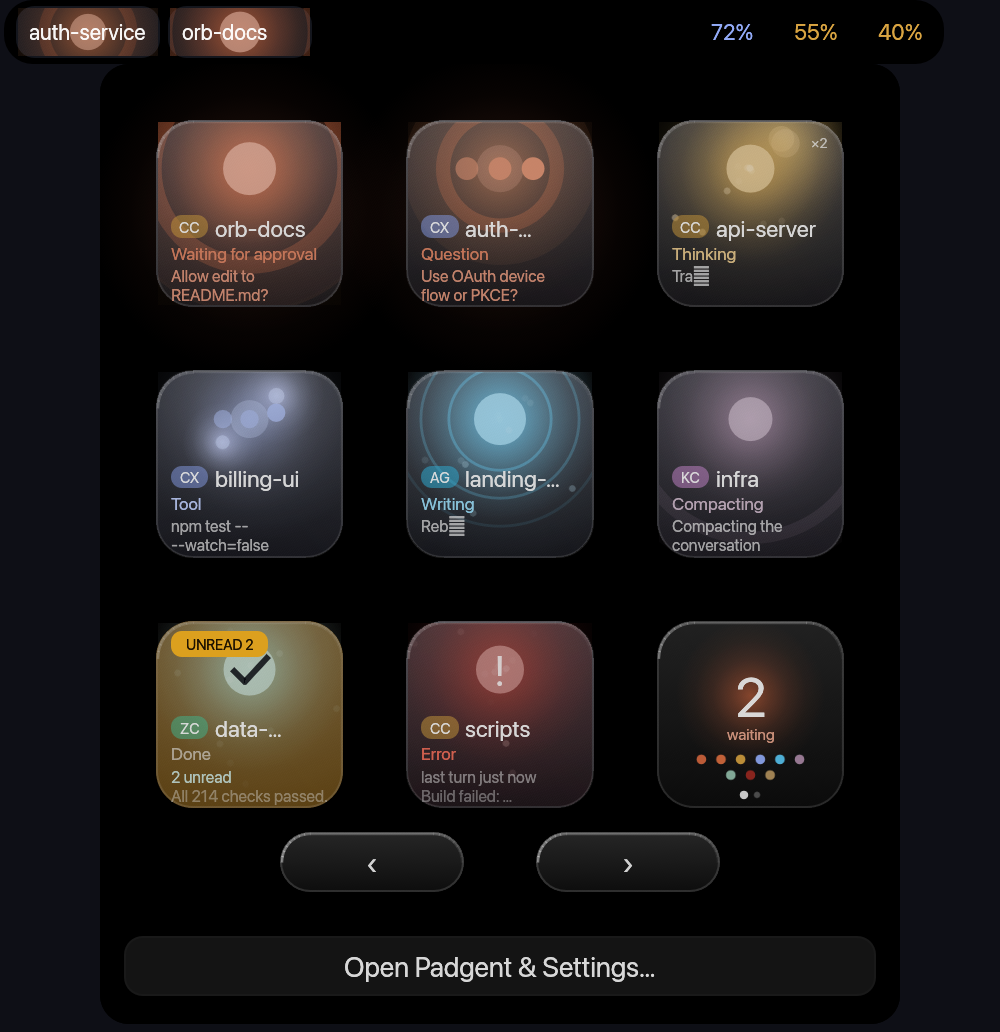
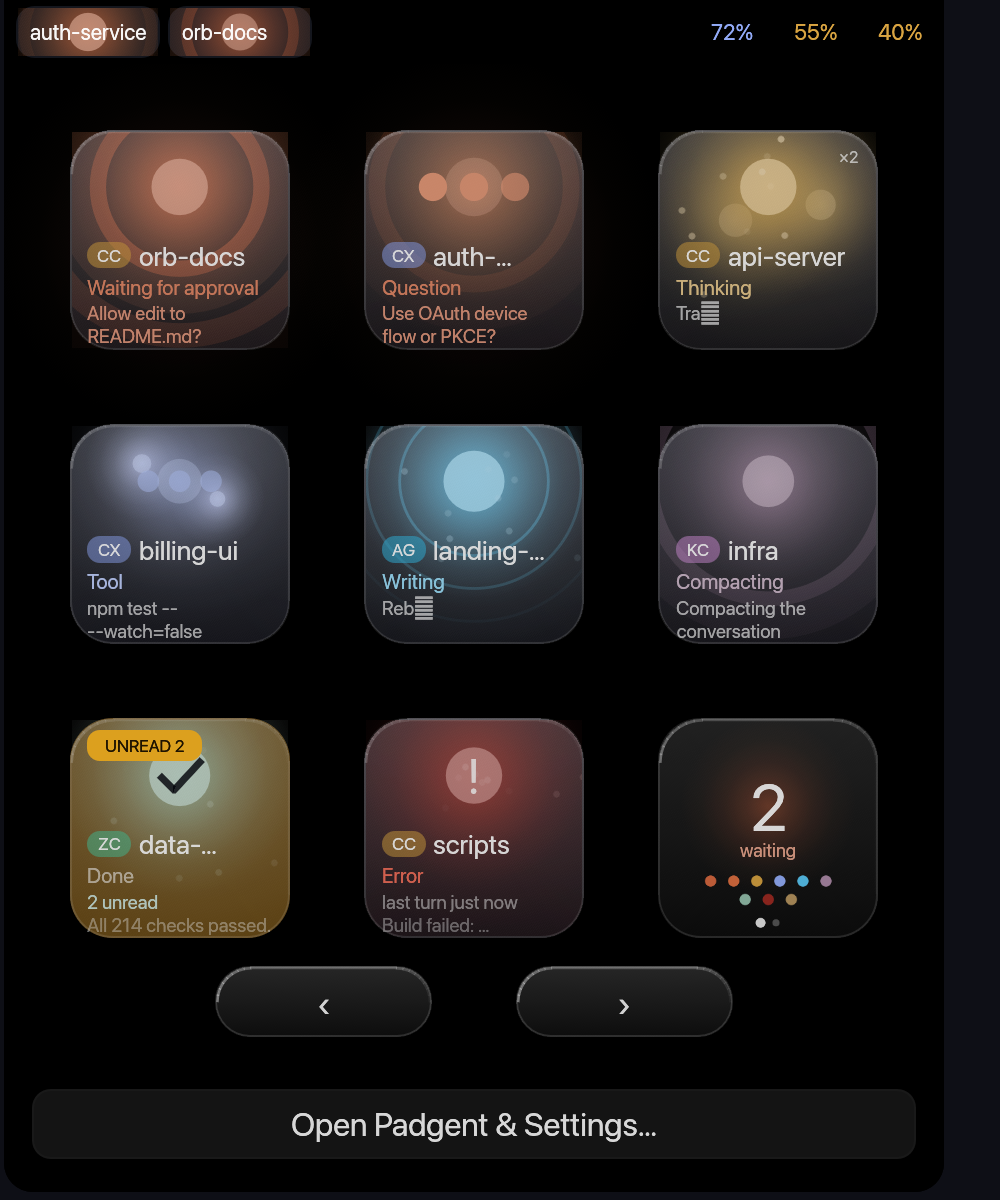
Fix notch font updates and expand the full black surface

diff --git a/src/main.rs b/src/main.rs
@@ -451,7 +451,8 @@ impl App {
         let right_width = 6.0 + quota_count as f32 * 42.0;
         let width = (notch + 2.0 * (left_width.max(right_width) + 6.0)).max(400.0);
         let expanded = self.popup_open && self.popup_from_island;
-        let window_h = h + if expanded || self.island_progress > 0.0 { 484.0 } else { 4.0 };
+        let body_width = notch + left_width + right_width + 12.0;
+        let window_h = h + if expanded || self.island_progress > 0.0 { body_width * 1.2 + 4.0 } else { 4.0 };
         let island_x = x - (width - 400.0) / 2.0;
         let builder = egui::ViewportBuilder::default().with_title("Padgent Island")
             .with_inner_size([width, window_h]).with_position(pos2(island_x, y))
@@ -465,12 +466,13 @@ impl App {
                 ui.ctx().send_viewport_cmd(egui::ViewportCommand::OuterPosition(pos2(island_x, y)));
                 ui.ctx().send_viewport_cmd(egui::ViewportCommand::InnerSize(vec2(width, window_h)));
             }
-            action = Self::island_contents(ui, &active, &quotas, brightness, reduced, notch, h);
             let progress = if reduced { if expanded { 1.0 } else { 0.0 } } else {
                 ui.ctx().animate_bool_with_time(egui::Id::unique("island-body"), expanded, 0.22)
             };
             self.island_progress = progress;
-            self.island_body(ui, ctx, notch, h, progress);
+            let (next_action, pill) = Self::island_contents(ui, &active, &quotas, brightness, reduced, notch, h, progress > 0.0);
+            action = next_action;
+            self.island_body(ui, ctx, pill, h, progress);
         });
         mac::configure_island_window();
         if let IslandAction::Open(agent, session) = &action {
@@ -494,13 +496,11 @@ impl App {
         }
     }
 
-    fn island_body(&mut self, ui: &mut Ui, root: &egui::Context, notch: f32, h: f32, progress: f32) {
+    fn island_body(&mut self, ui: &mut Ui, root: &egui::Context, pill: Rect, h: f32, progress: f32) {
         if progress <= 0.0 { return; }
-        let full = ui.max_rect();
-        let body = Rect::from_min_size(pos2(full.center().x - 200.0, full.top() + h), vec2(400.0, 480.0));
-        let width = notch.clamp(40.0, 400.0) + (400.0 - notch.clamp(40.0, 400.0)) * progress;
-        let reveal = Rect::from_min_size(pos2(full.center().x - width / 2.0, body.top()), vec2(width, 480.0 * progress));
-        ui.painter().rect_filled(reveal, CornerRadius::same(14), Color32::BLACK);
+        let body = Rect::from_min_size(pos2(pill.left(), pill.top() + h), vec2(pill.width(), pill.width() * 1.2));
+        let reveal = Rect::from_min_size(body.min, vec2(body.width(), body.height() * progress));
+        ui.painter().rect_filled(reveal, CornerRadius { nw: 0, ne: 0, sw: 14, se: 14 }, Color32::BLACK);
         if self.popup_open && self.popup_from_island {
             let mut child = ui.new_child(UiBuilder::new().max_rect(body).layout(egui::Layout::top_down(egui::Align::LEFT)));
             child.set_clip_rect(reveal.intersect(body));
@@ -508,7 +508,7 @@ impl App {
         }
     }
 
-    fn island_contents(ui: &mut Ui, active: &[IslandAgent], quotas: &[IslandQuota], brightness: f32, reduced: bool, notch: f32, h: f32) -> IslandAction {
+    fn island_contents(ui: &mut Ui, active: &[IslandAgent], quotas: &[IslandQuota], brightness: f32, reduced: bool, notch: f32, h: f32, expanded: bool) -> (IslandAction, Rect) {
         let rect = ui.max_rect();
         let p = ui.painter().clone();
         let gap = notch;
@@ -521,7 +521,8 @@ impl App {
         let hit = Rect::from_min_max(pos2(left_edge - 6.0, rect.top()), pos2(right_edge + 6.0, rect.top() + h + 2.0));
         let expansion = if reduced { 0.0 } else { ui.ctx().animate_bool_with_time(egui::Id::unique("island-hover"), ui.rect_contains_pointer(hit), 0.22) };
         let pill = Rect::from_min_max(pos2(left_edge - expansion * 6.0, rect.top()), pos2(right_edge + expansion * 6.0, rect.top() + h + expansion * 2.0));
-        p.rect_filled(pill, CornerRadius::same(14), Color32::BLACK);
+        let corners = if expanded { CornerRadius::ZERO } else { CornerRadius::same(14) };
+        p.rect_filled(pill, corners, Color32::BLACK);
         let background = ui.interact(pill, egui::Id::unique("island-expand"), Sense::click()).on_hover_text("Open keypad");
         let mut action = if background.clicked() { IslandAction::Expand } else { IslandAction::None };
         let now = model::now();
@@ -566,7 +567,7 @@ impl App {
             }
         }
 
-        action
+        (action, pill)
     }
 
     fn popup(&mut self, ctx: &egui::Context) {
@@ -594,7 +595,8 @@ impl App {
             if !self.popup_open { return; }
             let p = ui.painter().clone();
             let full = ui.max_rect();
-            p.rect_filled(full, CornerRadius::same(14), if self.popup_from_island { Color32::BLACK } else { Color32::from_rgb(29, 31, 39) });
+            let corners = if self.popup_from_island { CornerRadius { nw: 0, ne: 0, sw: 14, se: 14 } } else { CornerRadius::same(14) };
+            p.rect_filled(full, corners, if self.popup_from_island { Color32::BLACK } else { Color32::from_rgb(29, 31, 39) });
             let (faces, waiting, brightness, reduced, glyphs, dimmed, held) = {
                 let Ok(mut c) = self.core.lock() else { return };
                 c.tick();
@@ -603,9 +605,10 @@ impl App {
                     c.settings.key_glyphs, c.dimmed(), [c.page_held(false), c.page_held(true)])
             };
             let t = model::now();
-            let dev = Rect::from_min_size(full.min + vec2(12.0, 12.0), vec2(376.0, 414.0));
-            let grid_min = dev.min + vec2(16.0, 16.0);
-            let scale = 344.0 / 434.0;
+            let factor = full.width() / 400.0;
+            let dev = Rect::from_min_size(full.min + vec2(12.0, 12.0) * factor, vec2(376.0, 414.0) * factor);
+            let grid_min = dev.min + vec2(16.0, 16.0) * factor;
+            let scale = (344.0 / 434.0) * factor;
             let size = model::KEY_SIZE as f32 * scale;
             let pitch = model::PITCH as f32 * scale;
             let mut down = [false; KEY_COUNT];
@@ -623,7 +626,7 @@ impl App {
             }
             let mut page_down = [false; 2];
             for i in 0..2 {
-                let r = Rect::from_min_size(pos2(dev.left() + 78.0 + i as f32 * 128.0, dev.bottom() - 42.0), vec2(92.0, 30.0));
+                let r = Rect::from_min_size(pos2(dev.left() + (78.0 + i as f32 * 128.0) * factor, dev.bottom() - 42.0 * factor), vec2(92.0, 30.0) * factor);
                 let resp = ui.interact(r, egui::Id::unique(("tray-page", i)), Sense::click_and_drag());
                 page_down[i] = resp.is_pointer_button_down_on();
                 paint::page_button(&p, r, if i == 0 { "‹" } else { "›" }, held[i], resp.hovered());
@@ -637,8 +640,8 @@ impl App {
             }
             self.popup_keys = down;
             self.popup_pages = page_down;
-            let r = Rect::from_min_size(full.min + vec2(12.0, 436.0), vec2(376.0, 30.0));
-            if ui.put(r, egui::Button::new("Open Padgent & Settings…")).clicked() {
+            let r = Rect::from_min_size(full.min + vec2(12.0, 436.0) * factor, vec2(376.0, 30.0) * factor);
+            if ui.put(r, egui::Button::new(RichText::new("Open Padgent & Settings…").size(14.0 * factor))).clicked() {
                 self.popup_open = false;
                 mac::log("tray keypad dismissed for full app");
                 self.page = Page::Keypad;
@@ -1592,10 +1595,14 @@ impl eframe::App for App {
                 self.open_popup(rect);
             }
         }
-        if self.screenshot.is_none() { self.island(ctx); }
-        if !self.screenshot_menu_bar {
-            if self.popup_open && !self.popup_from_island { self.popup(ctx); }
-            else if !self.popup_open { self.cancel_popup_inputs(); }
+        // Immediate child windows share this context's texture atlas. A hidden root
+        // still needs a paint pass so atlas updates reach the GPU for those windows.
+        if self.screenshot.is_none() {
+            let needs_children = self.popup_open || self.core.lock().map(|c|
+                c.settings.island_enabled && (!island_agents(&c).is_empty() || !island_quotas(&c).is_empty())
+            ).unwrap_or(false);
+            if needs_children { ctx.send_viewport_cmd(egui::ViewportCommand::RequestPaintWhileHidden); }
+            if !self.popup_open { self.cancel_popup_inputs(); }
         }
         if ctx.input(|i| i.viewport().close_requested()) && self.screenshot.is_none() {
             ctx.send_viewport_cmd(egui::ViewportCommand::CancelClose);
@@ -1643,13 +1650,20 @@ impl eframe::App for App {
     }
 
     fn ui(&mut self, ui: &mut Ui, _frame: &mut eframe::Frame) {
+        if self.screenshot.is_none() {
+            let ctx = ui.ctx().clone();
+            self.island(&ctx);
+            if self.popup_open && !self.popup_from_island { self.popup(&ctx); }
+            if !self.popup_open { self.cancel_popup_inputs(); }
+            if !ctx.input(|i| i.viewport().visible().unwrap_or(true)) { return; }
+        }
         if self.screenshot_island {
-            if let Ok(c) = self.core.lock() {
-                Self::island_contents(ui, &island_agents(&c), &island_quotas(&c), c.settings.brightness, c.settings.motion == Motion::Reduced, 180.0, 32.0);
-            }
-            if self.screenshot_island_expanded {
+            let pill = self.core.lock().ok().map(|c| {
+                Self::island_contents(ui, &island_agents(&c), &island_quotas(&c), c.settings.brightness, c.settings.motion == Motion::Reduced, 180.0, 32.0, self.screenshot_island_expanded).1
+            });
+            if let (true, Some(pill)) = (self.screenshot_island_expanded, pill) {
                 let ctx = ui.ctx().clone();
-                self.island_body(ui, &ctx, 180.0, 32.0, 1.0);
+                self.island_body(ui, &ctx, pill, 32.0, 1.0);
             }
             return;
         }
@@ -1724,7 +1738,7 @@ fn main() -> eframe::Result {
         .with_titlebar_shown(false);
     if screenshot_island {
         viewport = egui::ViewportBuilder::default().with_title("Padgent Island preview")
-            .with_inner_size([500.0, if screenshot_island_expanded { 516.0 } else { 36.0 }]).with_resizable(false).with_decorations(false).with_transparent(true);
+            .with_inner_size([500.0, if screenshot_island_expanded { 600.0 } else { 36.0 }]).with_resizable(false).with_decorations(false).with_transparent(true);
     } else if screenshot_menu_bar {
         viewport = egui::ViewportBuilder::default().with_title("Padgent keypad")
             .with_inner_size([400.0, 480.0]).with_resizable(false).with_decorations(false);
